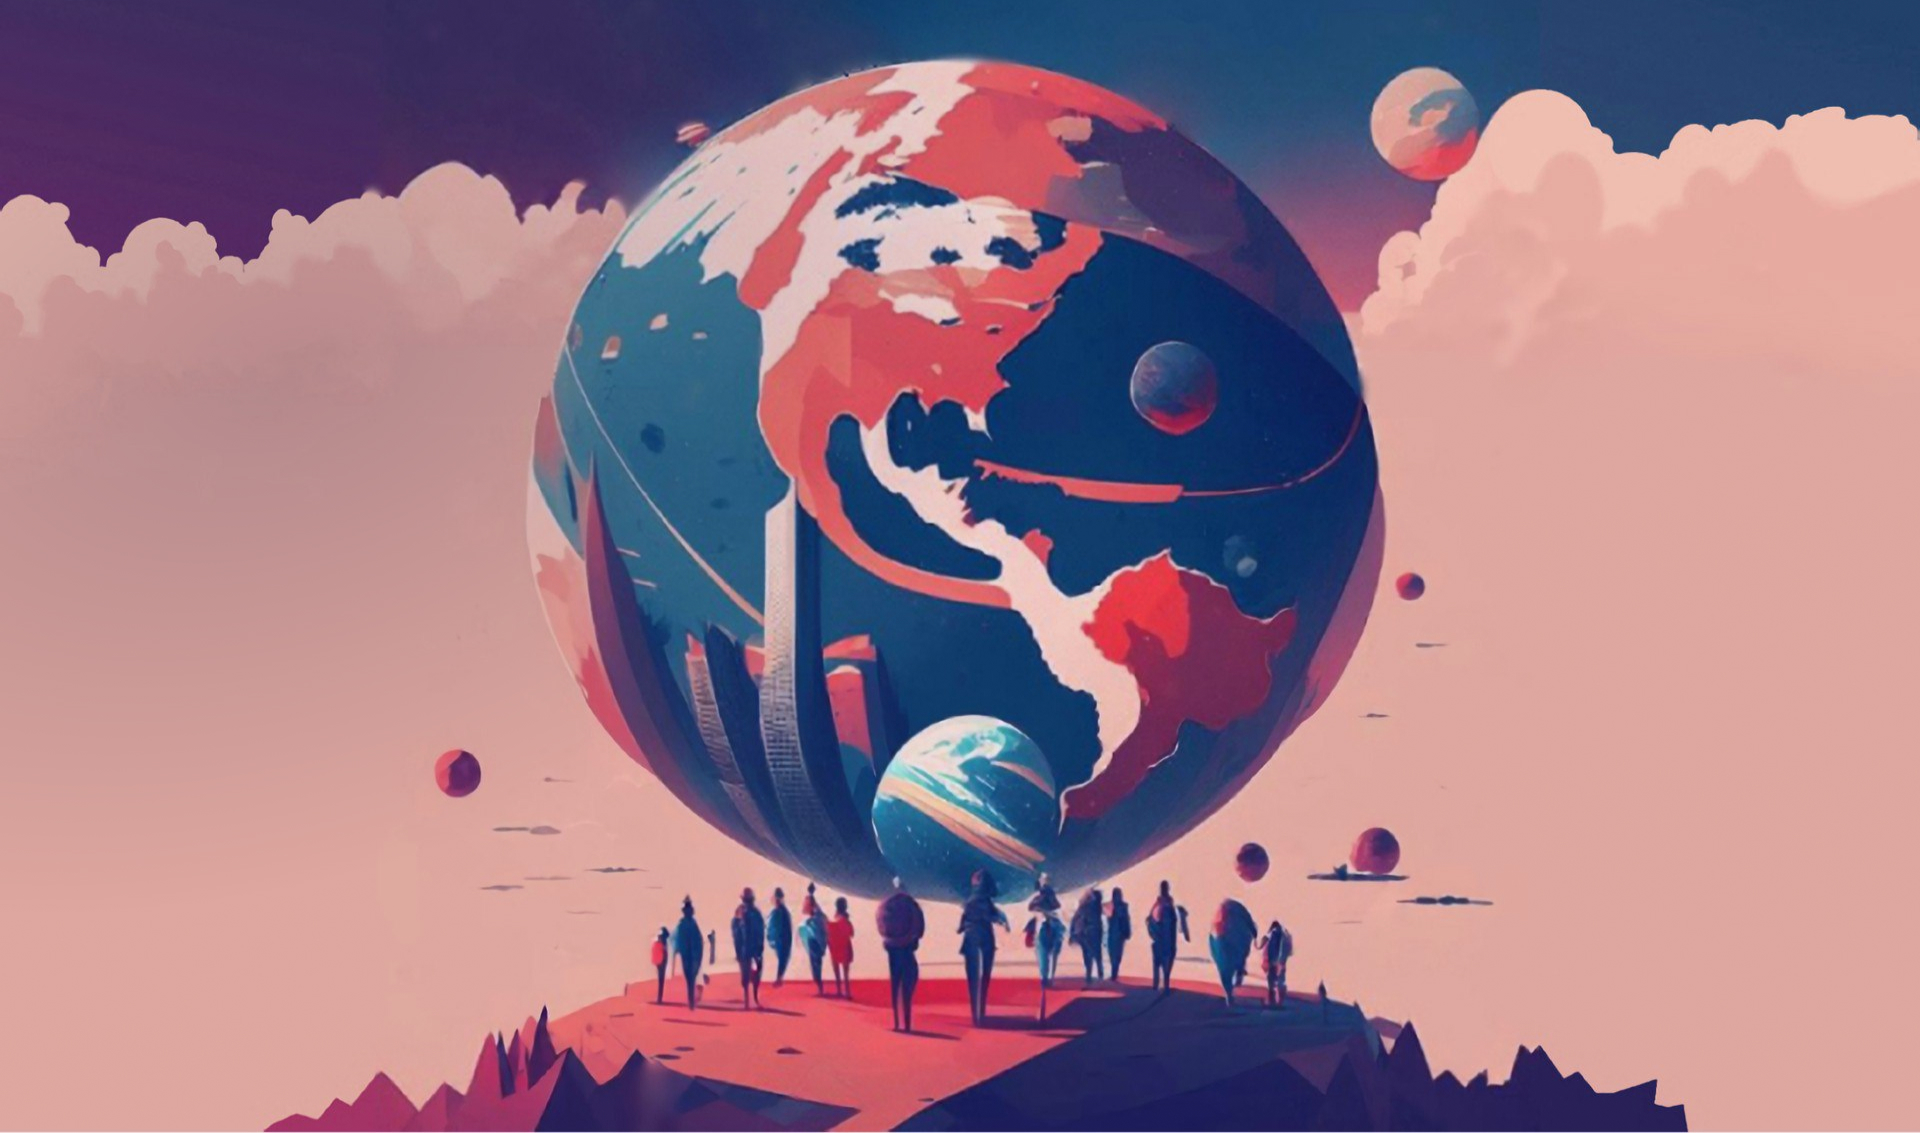
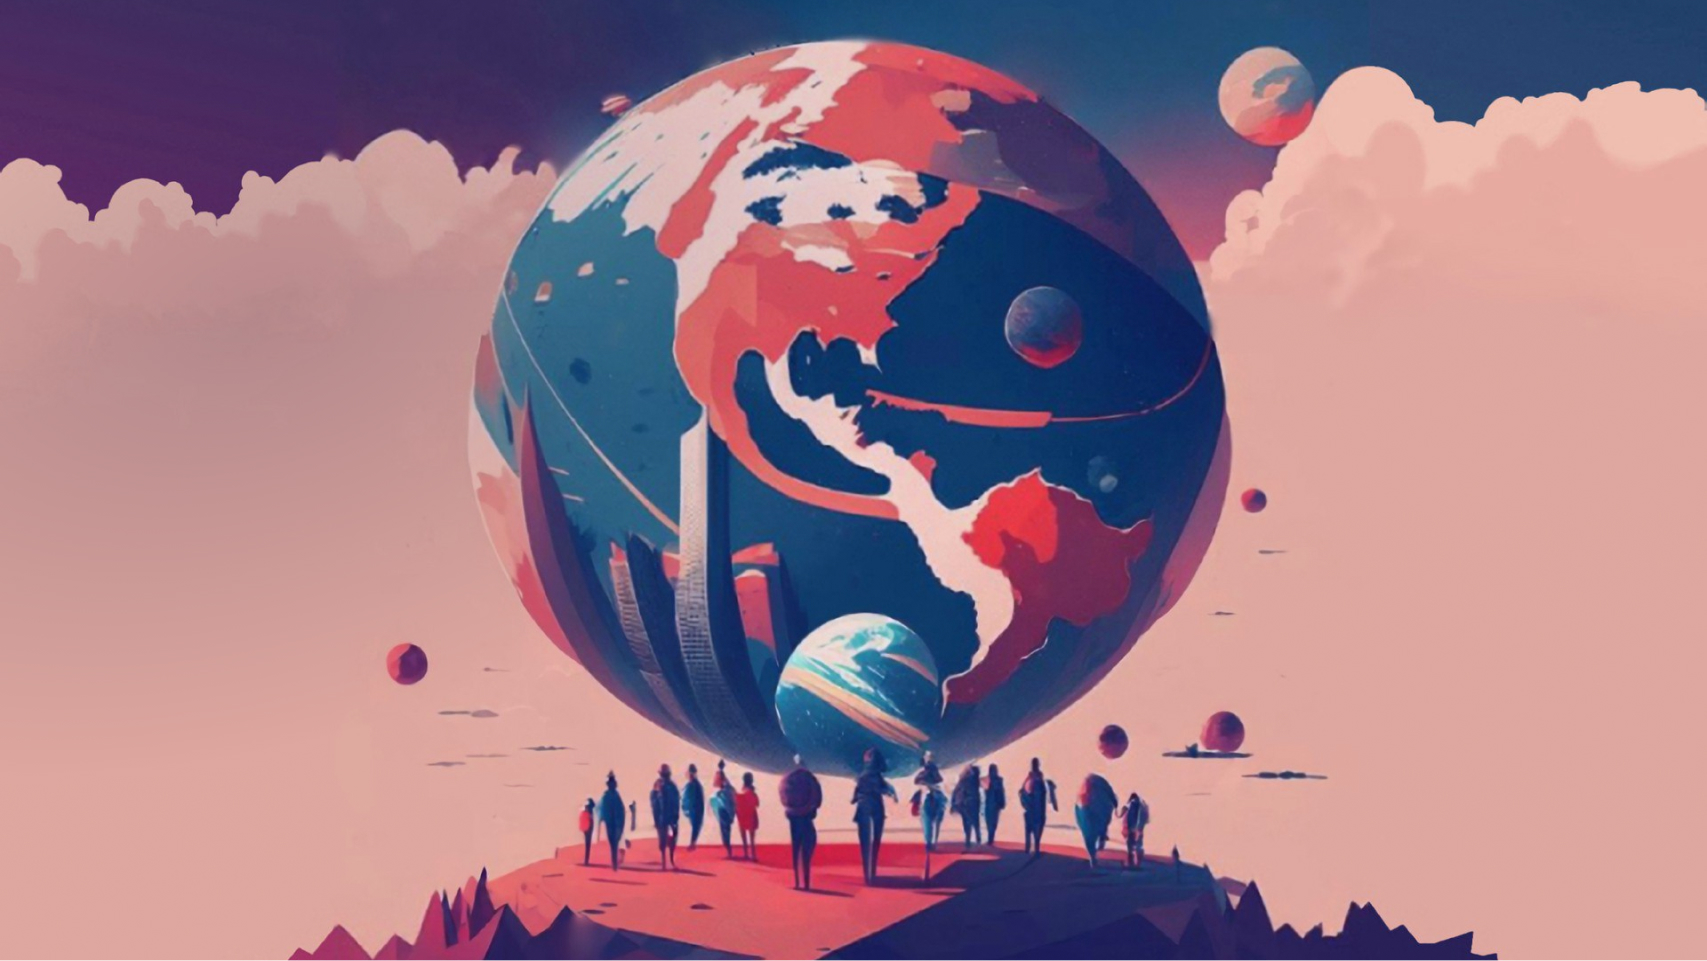
add responsive design for home and login pages, also redact footer

diff --git a/frontend/src/pages/home/Home.module.css b/frontend/src/pages/home/Home.module.css
@@ -13,6 +13,7 @@ main{
     justify-content: center;
     background-image: url(./../../assets/main-background-image.jpg);
     background-size: cover;
+    background-position: 50% 50%;
     background-repeat: no-repeat;
     background-attachment: fixed;
     width: 100%;
@@ -33,7 +34,7 @@ main{
    display: flex;
    justify-content: space-between;
    align-items: center;
-   height: 120vh;
+   height: 100vh;
 }
 
 .main_buttons{
@@ -116,6 +117,90 @@ main{
 
 .main_social{
     margin-bottom: 44px;
+}
+
+@media (max-width: 1024px){
+    .main_information h3{
+        font-size: 26px;
+    }
+    .main_information p{
+        padding: 0 0 26px 0;
+        max-width: 400px;
+        font-size: 16px;
+    }
+    .main_information h1{
+        font-size: 80px;
+    }
+    .main_social{
+        margin-bottom: 20px;  
+    }
+    .main_social img{
+        width: 24px;   
+    }
+    .main_button a{       
+        font-size: 16px;       
+        padding: 16px 40px;
+    }
+    .main_button__red a{
+        font-size: 16px;       
+        padding: 16px 40px;
+    }
+}
+
+@media (max-width: 768px){
+    .main_information h3{
+        font-size: 24px;
+    }
+    .main_information p{
+        padding: 0 0 26px 0;
+        max-width: 400px;
+        font-size: 16px;
+    }
+    .main_information h1{
+        font-size: 70px;
+    }
+    .main_socials{
+        display: flex;
+        flex-direction: row;
+        justify-self:flex-end;
+        position: absolute;
+        bottom: 10px;
+        left: 50%;
+        transform: translateX(-50%);
+    }
+    .main_social{
+        margin-bottom: 20px;  
+        margin: 0 10px;
+    }
+    .main_social img{
+        width: 24px;   
+    }
+    .main_buttons{
+        flex-direction: column;
+    }
+    .main_button{
+        max-width: max-content;
+        margin-bottom: 20px;
+    }
+    .main_button__red{
+        max-width: max-content; 
+    }
+    .main_button a{       
+        font-size: 16px;       
+        padding: 16px 40px;   
+    }
+    .main_button__red a{
+        font-size: 16px;       
+        padding: 16px 40px;
+    }
+    .main_screen{
+        display: flex;
+        position: relative;
+        flex-direction: column;
+        justify-content: center;
+        align-items: normal;
+        height: 100vh;
+    }
 }
 
 .game_information{
@@ -239,4 +324,82 @@ main{
     font-style: normal;
     font-weight: 700;
     line-height: normal;
+}
+
+@media (max-width: 1024px){
+    .game_general__items{
+        margin: 20px 0;
+    }
+    .game_general__item{
+        padding: 15px 0;
+    }
+    .game_general__item_red{
+        padding: 15px 0;
+    }
+    .game_general__text{ 
+        font-size: 18px;   
+    }
+    .game_general__text span{
+        font-size: 26px;
+    }
+    .game_information__text {
+        font-size: 16px;   
+    }
+    .game_information__grafic h2{
+        font-size: 40px;
+    }
+    .game_join{
+        margin-top: 30px;
+        max-width: 215px;
+        padding: 15px 40px;
+    }
+    .game_join a{
+        font-size: 20px;
+    }
+    .game_information__image img{
+        max-width: 150px
+    }
+}
+
+@media (max-width: 650px){
+    .game_general__items{
+        margin: 20px 0;
+        flex-direction: column;
+    }
+    .game_general__item{
+        padding: 6px 0;
+        width: 95%;
+        margin-bottom: 15px;
+        max-width: 100%;
+    }
+    .game_general__item_red{
+        padding: 6px 0;
+        width: 95%;
+        margin-bottom: 15px; 
+    }
+    .game_general__text{ 
+        font-size: 16px;   
+    }
+    .game_general__text span{
+        font-size: 20px;
+    }
+    .game_about{
+        display: flex;
+        flex-direction: column;
+        margin: 50px 0px;
+    }
+    .game_information__grafic{
+        width: 95%;
+    }
+    .game_information__text {
+        font-size: 16px;  
+        width: 95%; 
+        padding: 0;
+        display: flex;
+        flex-direction: column;
+        align-items:center;
+    }
+    .game_information__grafic h2{
+        font-size: 40px;
+    }
 }

diff --git a/frontend/src/components/UI/footer/Footer.tsx b/frontend/src/components/UI/footer/Footer.tsx
@@ -31,21 +31,21 @@ const Footer: FC = () => {
                         </div>
                     </div>
                     <div className={cl.footer_socials}>
-                        <div className={cl.footer_social}>
+                        <a className={cl.footer_social}>
                             <p>@world.domination</p><img src={instagram}/>
-                        </div>
-                        <div className={cl.footer_social}>
+                        </a>
+                        <a className={cl.footer_social}>
                             <p>@world.domination</p><img src={facebook}/>
-                        </div>
-                        <div className={cl.footer_social}>
+                        </a>
+                        <a className={cl.footer_social}>
                             <p>@world.domination</p><img src={discord}/>
-                        </div>
-                        <div className={cl.footer_social}>
+                        </a>
+                        <a className={cl.footer_social}>
                             <p>@world.domination</p><img src={telegram}/>
-                        </div>
-                        <div className={cl.footer_social}>
+                        </a>
+                        <a className={cl.footer_social}>
                             <p>@world.domination</p><img src={tiktok}/>
-                        </div>
+                        </a>
                     </div>
                 </div>
                 <div className={cl.copyright}>

diff --git a/frontend/src/pages/login/Login.tsx b/frontend/src/pages/login/Login.tsx
@@ -1,6 +1,5 @@
 import React, {FormEvent, useState, FC} from 'react';
 import cl from "./Login.module.css" ;
-import axios from 'axios';
 import { useAppDispatch } from '../../hook';
 import { loginUser } from '../../store/auth/actionCreators';
 
@@ -29,29 +28,6 @@ const Login: FC = () => {
         e.preventDefault();
         dispatch(loginUser(userForm));
     }
-
-    // const clickHandler = (e: React.MouseEvent<HTMLButtonElement>) => {
-    //     e.preventDefault();
-    //     postLogin();
-    //     setUserForm({logincode: "", password: "",});
-    // }
-
-    // async function postLogin(){
-    //     try{
-    //         console.log(userForm);
-    //         const response = await axios.post("http://127.0.0.1:8000/login_page", userForm);
-    //         console.log(response.data);
-    //         return response;
-    //     }catch (error){
-    //         if (axios.isAxiosError(error)) {
-    //             console.log('error message: ', error.message);
-    //             return error.message;
-    //         } else {
-    //             console.log('unexpected error: ', error);
-    //             return 'An unexpected error occurred';
-    //         }
-    //     }
-    // }
 
     return (
         <div className={cl.login__wrapper}>    

diff --git a/frontend/src/components/UI/footer/Footer.module.css b/frontend/src/components/UI/footer/Footer.module.css
@@ -67,10 +67,6 @@ footer{
     line-height: 104.49%;
 }
 
-.footer_socials{
-    
-}
-
 .footer_social{
     display: flex;
     align-items: center;
@@ -90,8 +86,8 @@ footer{
 }
 
 .copyright{
-    margin-top: 30px;
-    color: #FFF;
+    margin-top: 40px;
+    color: #918f8f;
     font-family: Arimo;
     font-size: 18px;
     font-style: normal;
@@ -99,3 +95,23 @@ footer{
     line-height: normal;
     align-self: center;
 }
+
+@media (max-width: 1024px){
+    .footer_information{
+        flex-direction: column;
+    }
+    .footer_kontakt{
+        margin-top: 20px;
+    }
+    .footer_logo{
+        margin-bottom: 15px;
+    }
+}
+
+@media (max-width: 550px){
+    .footer_social p{
+        display: none;
+    }
+}
+
+

diff --git a/frontend/src/pages/login/Login.module.css b/frontend/src/pages/login/Login.module.css
@@ -19,9 +19,11 @@
 
 .login__form {
     max-width: 500px;
+    width: 100%;
     background-color: rgba(6, 7, 22, 0.5);
     padding: 25px;
     border-radius: 15px;
+    margin: 0 20px;
 }
 
 .login__title{
@@ -116,7 +118,8 @@
 .form_control {
     position: relative;
     margin: 20px 0 15px;
-    width: 400px;
+    max-width: 100%;
+
 }
 
 .form_control input {
